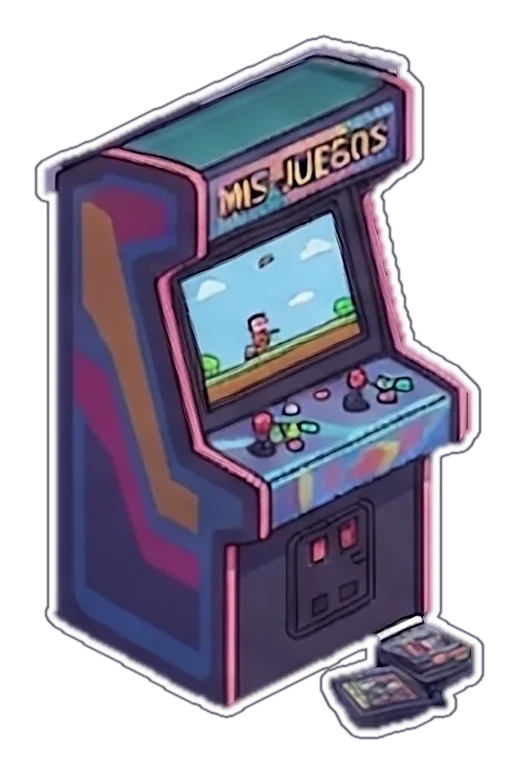
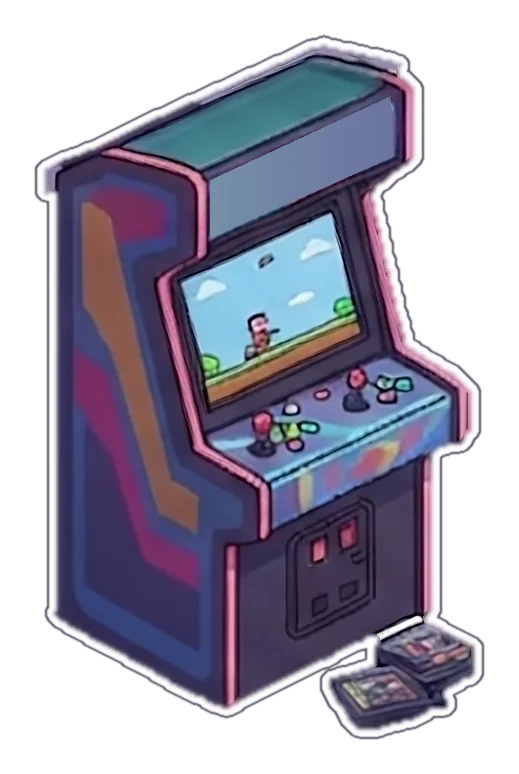
Arcade: cartel de la recreativa sin letras
Claude-Session: https://claude.ai/code/session_01WvcRZ9mxL7Ztf2JTxQvTJ1

Changed region(s): [[0.4008, 0.124, 0.7707, 0.3101]]

diff --git a/scripts/arcade_room.py b/scripts/arcade_room.py
@@ -40,12 +40,50 @@ HOLO = [(69, 366), (192, 307), (195, 308), (196, 372), (208, 380), (208, 400), (
 BADGE = [(199, 319), (228, 312), (232, 315), (232, 343), (201, 351), (198, 349)]  # icono de Spotify
 ARC_TOP = [(423, 400), (423, 365), (441, 358), (450, 353), (510, 326), (514, 325), (541, 331), (546, 336), (549, 400)]
 
+# Letrero de la recreativa: las letras del dibujo salían deformadas ("MIS JUEϬOS"), así que se borran
+# y el cartel queda liso, rellenado con los colores que lo rodean.
+MARQUEE = [(477, 369), (537, 341), (538, 361), (477, 388)]  # interior del cartel, entre sus marcos oscuros
+
 # Fundido del borde delantero del suelo, en píxeles del original: la parte de delante se pierde
 # en la oscuridad (y de paso disimula el trozo de suelo reconstruido bajo el holograma).
 FADE = 75
 
 # Borde inferior del suelo (x, y): lo que queda por debajo ya no es sala.
 FLOOR_EDGE = [(0, 318), (25, 330), (40, 333), (55, 340), (195, 387), (260, 393), (330, 402), (400, 382), (545, 328), (600, 309), (723, 262), (1024, 262)]
+
+
+def clear_marquee(hd: np.ndarray) -> np.ndarray:
+    """Borra las letras del cartel: cada columna se pinta con el color del propio cartel en esa columna
+    (la mediana de lo que no es letra), suavizado, con el borde fundido para que no se note el corte."""
+    mq = np.zeros(hd.shape[:2], np.uint8)
+    cv2.fillPoly(mq, [np.array(MARQUEE, np.int32) * SCALE], 1)
+    f = hd.astype(np.float32)
+    r, g, b = f[..., 0], f[..., 1], f[..., 2]
+    # el fondo del cartel es azul: todo lo cálido (letras doradas y su contorno marrón) o muy oscuro/claro no cuenta
+    letters = (r > b - 10) | (f.mean(axis=2) > 175) | (f.mean(axis=2) < 70)
+    ys, xs = np.where(mq > 0)
+    x0, x1 = xs.min(), xs.max()
+    cols = np.zeros((x1 - x0 + 1, 3), np.float32)
+    valid = np.zeros(x1 - x0 + 1, bool)
+    for x in range(x0, x1 + 1):
+        sel = (mq[:, x] > 0) & ~letters[:, x]
+        if sel.sum() >= 3:
+            cols[x - x0] = np.median(f[sel, x], axis=0)
+            valid[x - x0] = True
+    # degradado recto entre los colores de los dos extremos del cartel (el centro estaba lleno de letras)
+    n = len(cols)
+    ends = np.arange(n)
+    left = valid & (ends < n * 0.2)
+    right = valid & (ends > n * 0.8)
+    c0 = np.median(cols[left], axis=0)
+    c1 = np.median(cols[right], axis=0)
+    t = (ends / max(n - 1, 1))[:, None]
+    cols = c0 * (1 - t) + c1 * t
+    fill = f.copy()
+    fill[ys, xs] = cols[xs - x0]
+    w = cv2.GaussianBlur(mq.astype(np.float32), (0, 0), 0.8 * SCALE)[..., None]
+    w = np.clip(w * 1.6, 0, 1)
+    return (fill * w + f * (1 - w)).astype(np.uint8)
 
 
 def poly_mask(shape, pts, grow=2):
@@ -255,7 +293,9 @@ def main():
     a = a * (t * t * (3 - 2 * t))  # smoothstep
     hd = None
     if HD.exists():
-        hd = np.array(Image.open(HD).convert("RGB")).astype(np.float32)
+        hd = np.array(Image.open(HD).convert("RGB"))
+        hd = clear_marquee(hd)
+        hd = hd.astype(np.float32)
         # en la sala, el suelo que tapaban los objetos sale del relleno, ampliado
         filled_up = cv2.resize(filled, (hd.shape[1], hd.shape[0]), interpolation=cv2.INTER_CUBIC)
         hole_up = cv2.resize(cv2.dilate(hole.astype(np.uint8), disk(2)), (hd.shape[1], hd.shape[0]), interpolation=cv2.INTER_NEAREST).astype(bool)
